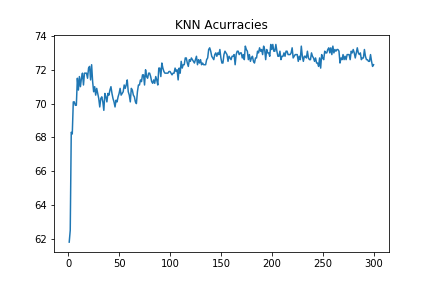
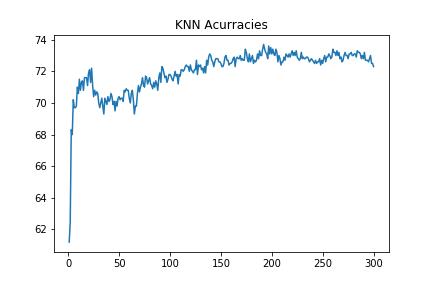
Replacing <= 360 with < 360

diff --git a/EEG-Spike-Detection.py b/EEG-Spike-Detection.py
@@ -18,12 +18,12 @@ testing_spike_trains = np.transpose(np.genfromtxt("Testing_SpikeTrains.txt"))
 training_angle_array = np.where((raw_training_angle_array < 90.0) & (raw_training_angle_array >= 0.0), 1, raw_training_angle_array)
 training_angle_array = np.where((raw_training_angle_array < 180.0) & (raw_training_angle_array >= 90.0), 2, training_angle_array)
 training_angle_array = np.where((raw_training_angle_array < 270.0) & (raw_training_angle_array >= 180.0), 3, training_angle_array)
-training_angle_array = np.where((raw_training_angle_array <= 360.0) & (raw_training_angle_array >= 270.0), 4, training_angle_array)
+training_angle_array = np.where((raw_training_angle_array < 360.0) & (raw_training_angle_array >= 270.0), 4, training_angle_array)
 
 testing_angle_array = np.where((raw_testing_angle_array < 90.0) & (raw_testing_angle_array >= 0.0), 1, raw_testing_angle_array)
 testing_angle_array = np.where((raw_testing_angle_array < 180.0) & (raw_testing_angle_array >= 90.0), 2, testing_angle_array)
 testing_angle_array = np.where((raw_testing_angle_array < 270.0) & (raw_testing_angle_array >= 180.0), 3, testing_angle_array)
-testing_angle_array = np.where((raw_testing_angle_array <= 360.0) & (raw_testing_angle_array >= 270.0), 4, testing_angle_array)
+testing_angle_array = np.where((raw_testing_angle_array < 360.0) & (raw_testing_angle_array >= 270.0), 4, testing_angle_array)
 
 knn_scores = []
 different_k_values = np.arange(1, 301)
